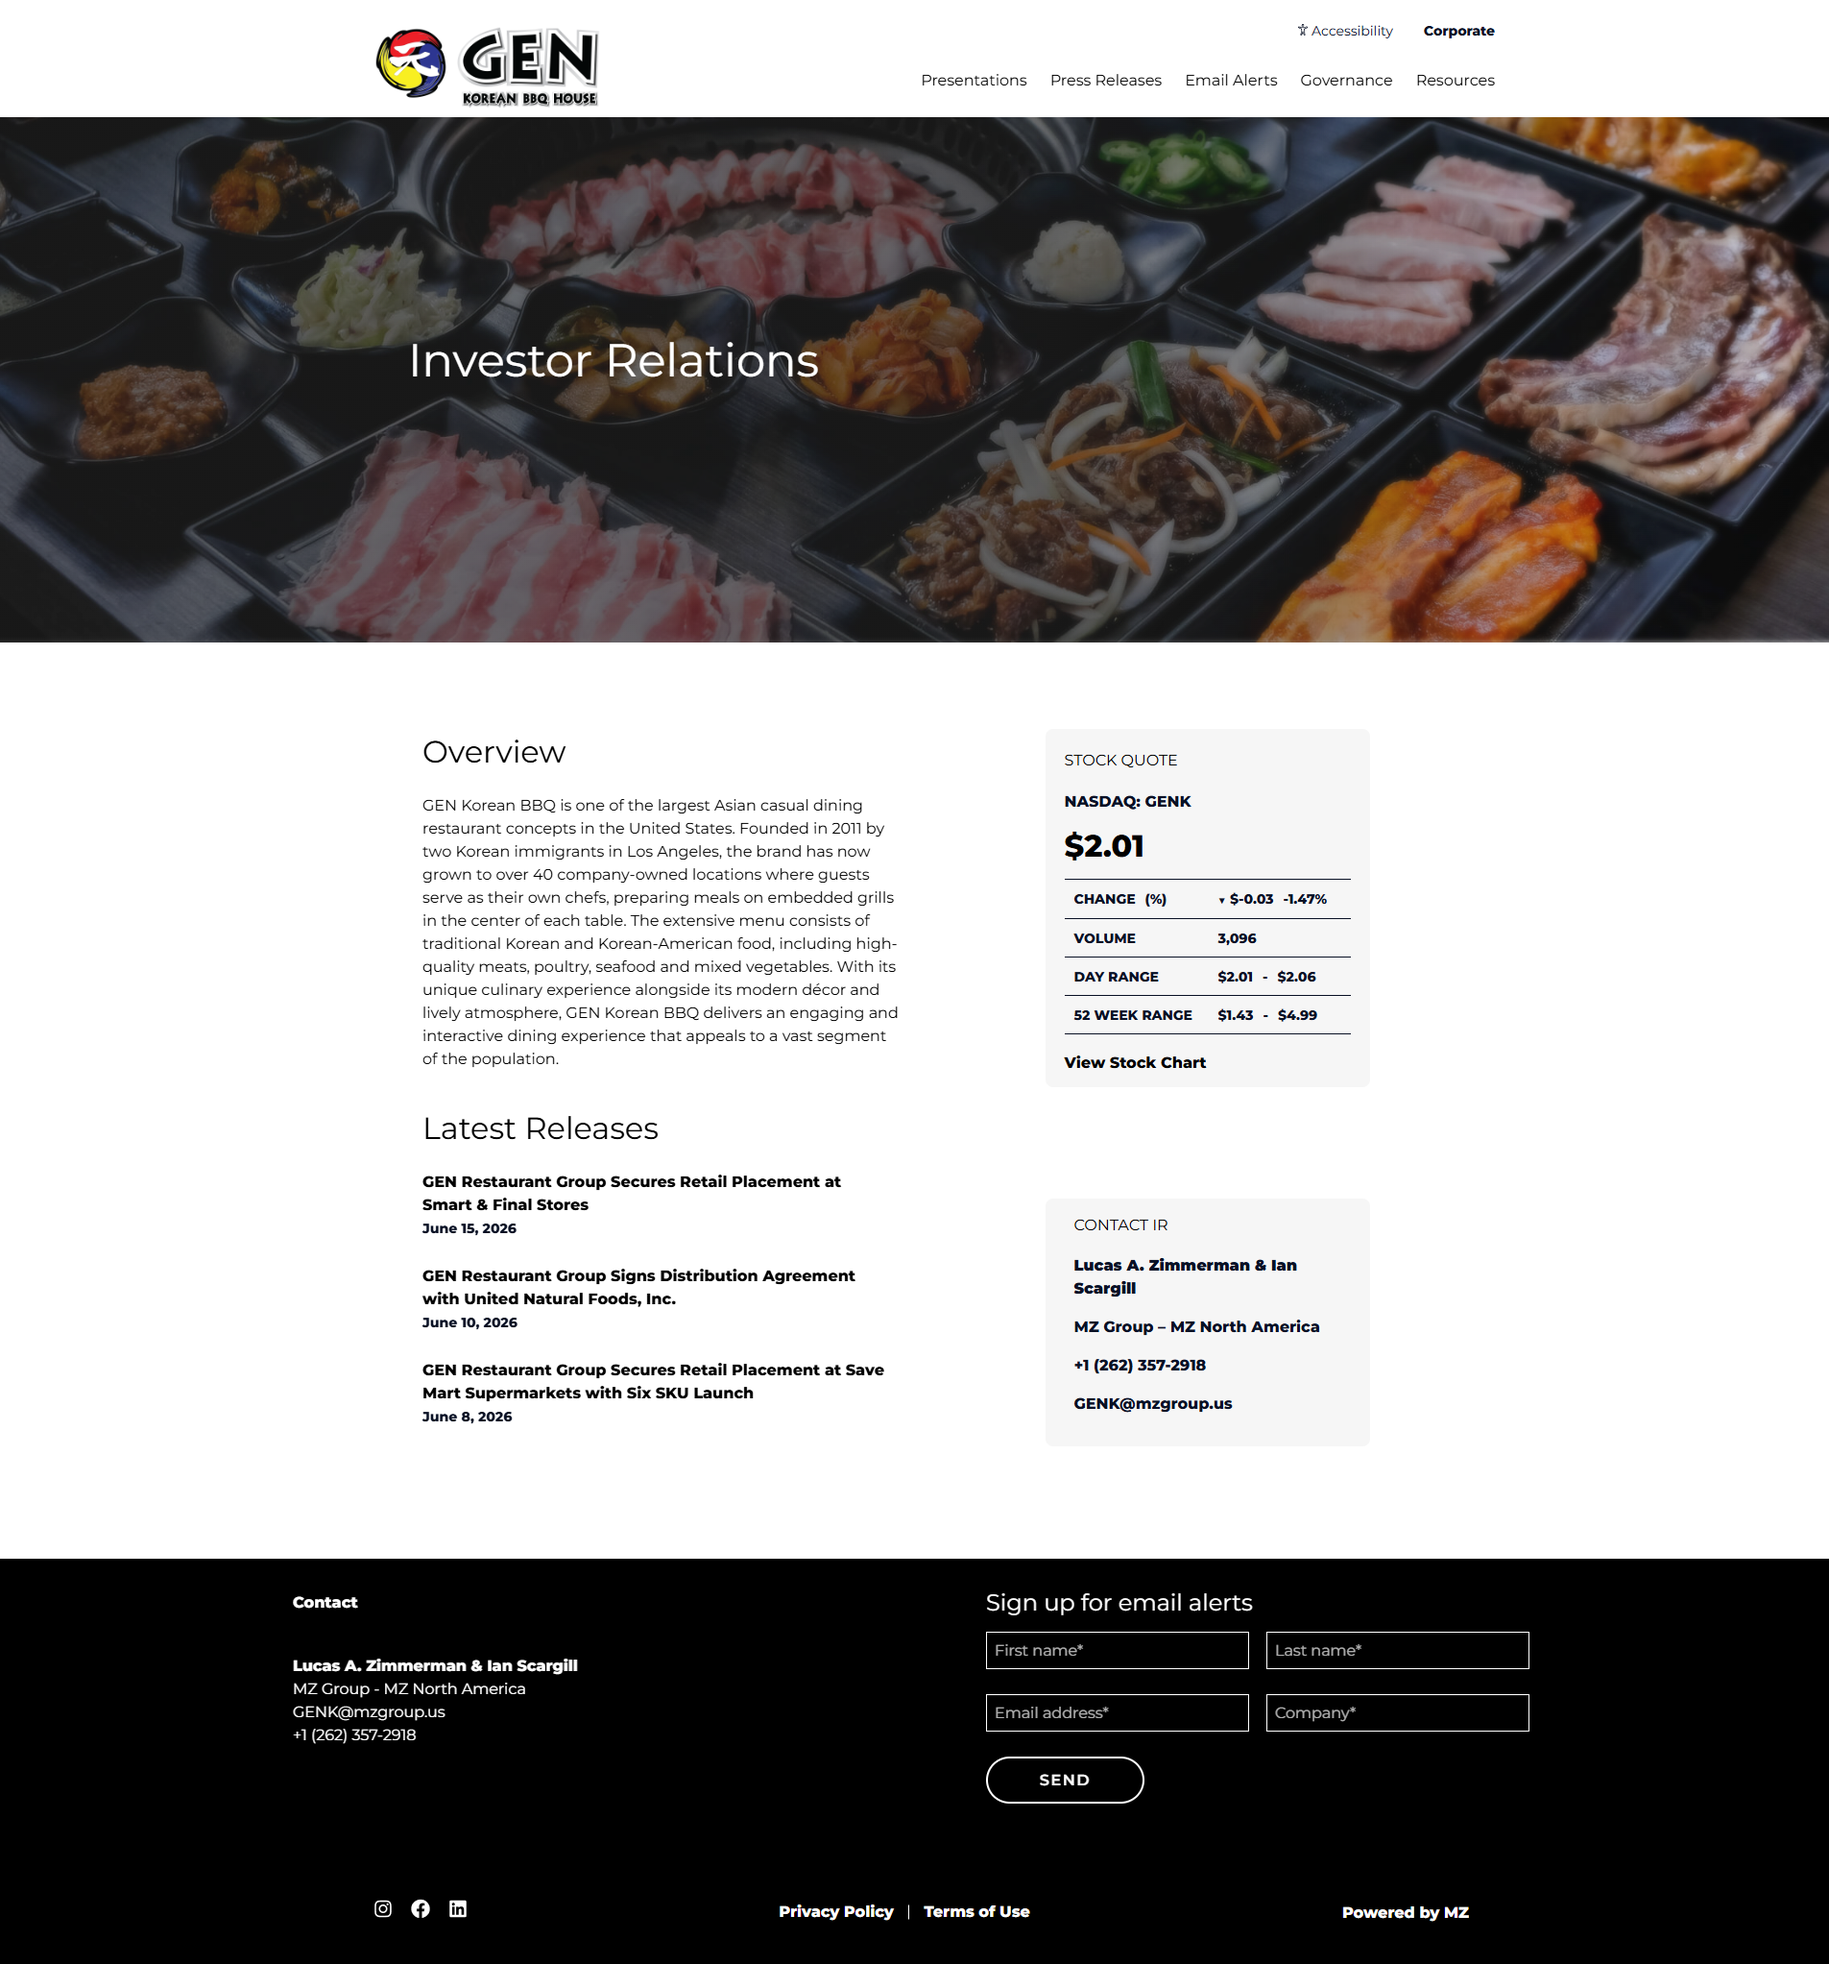
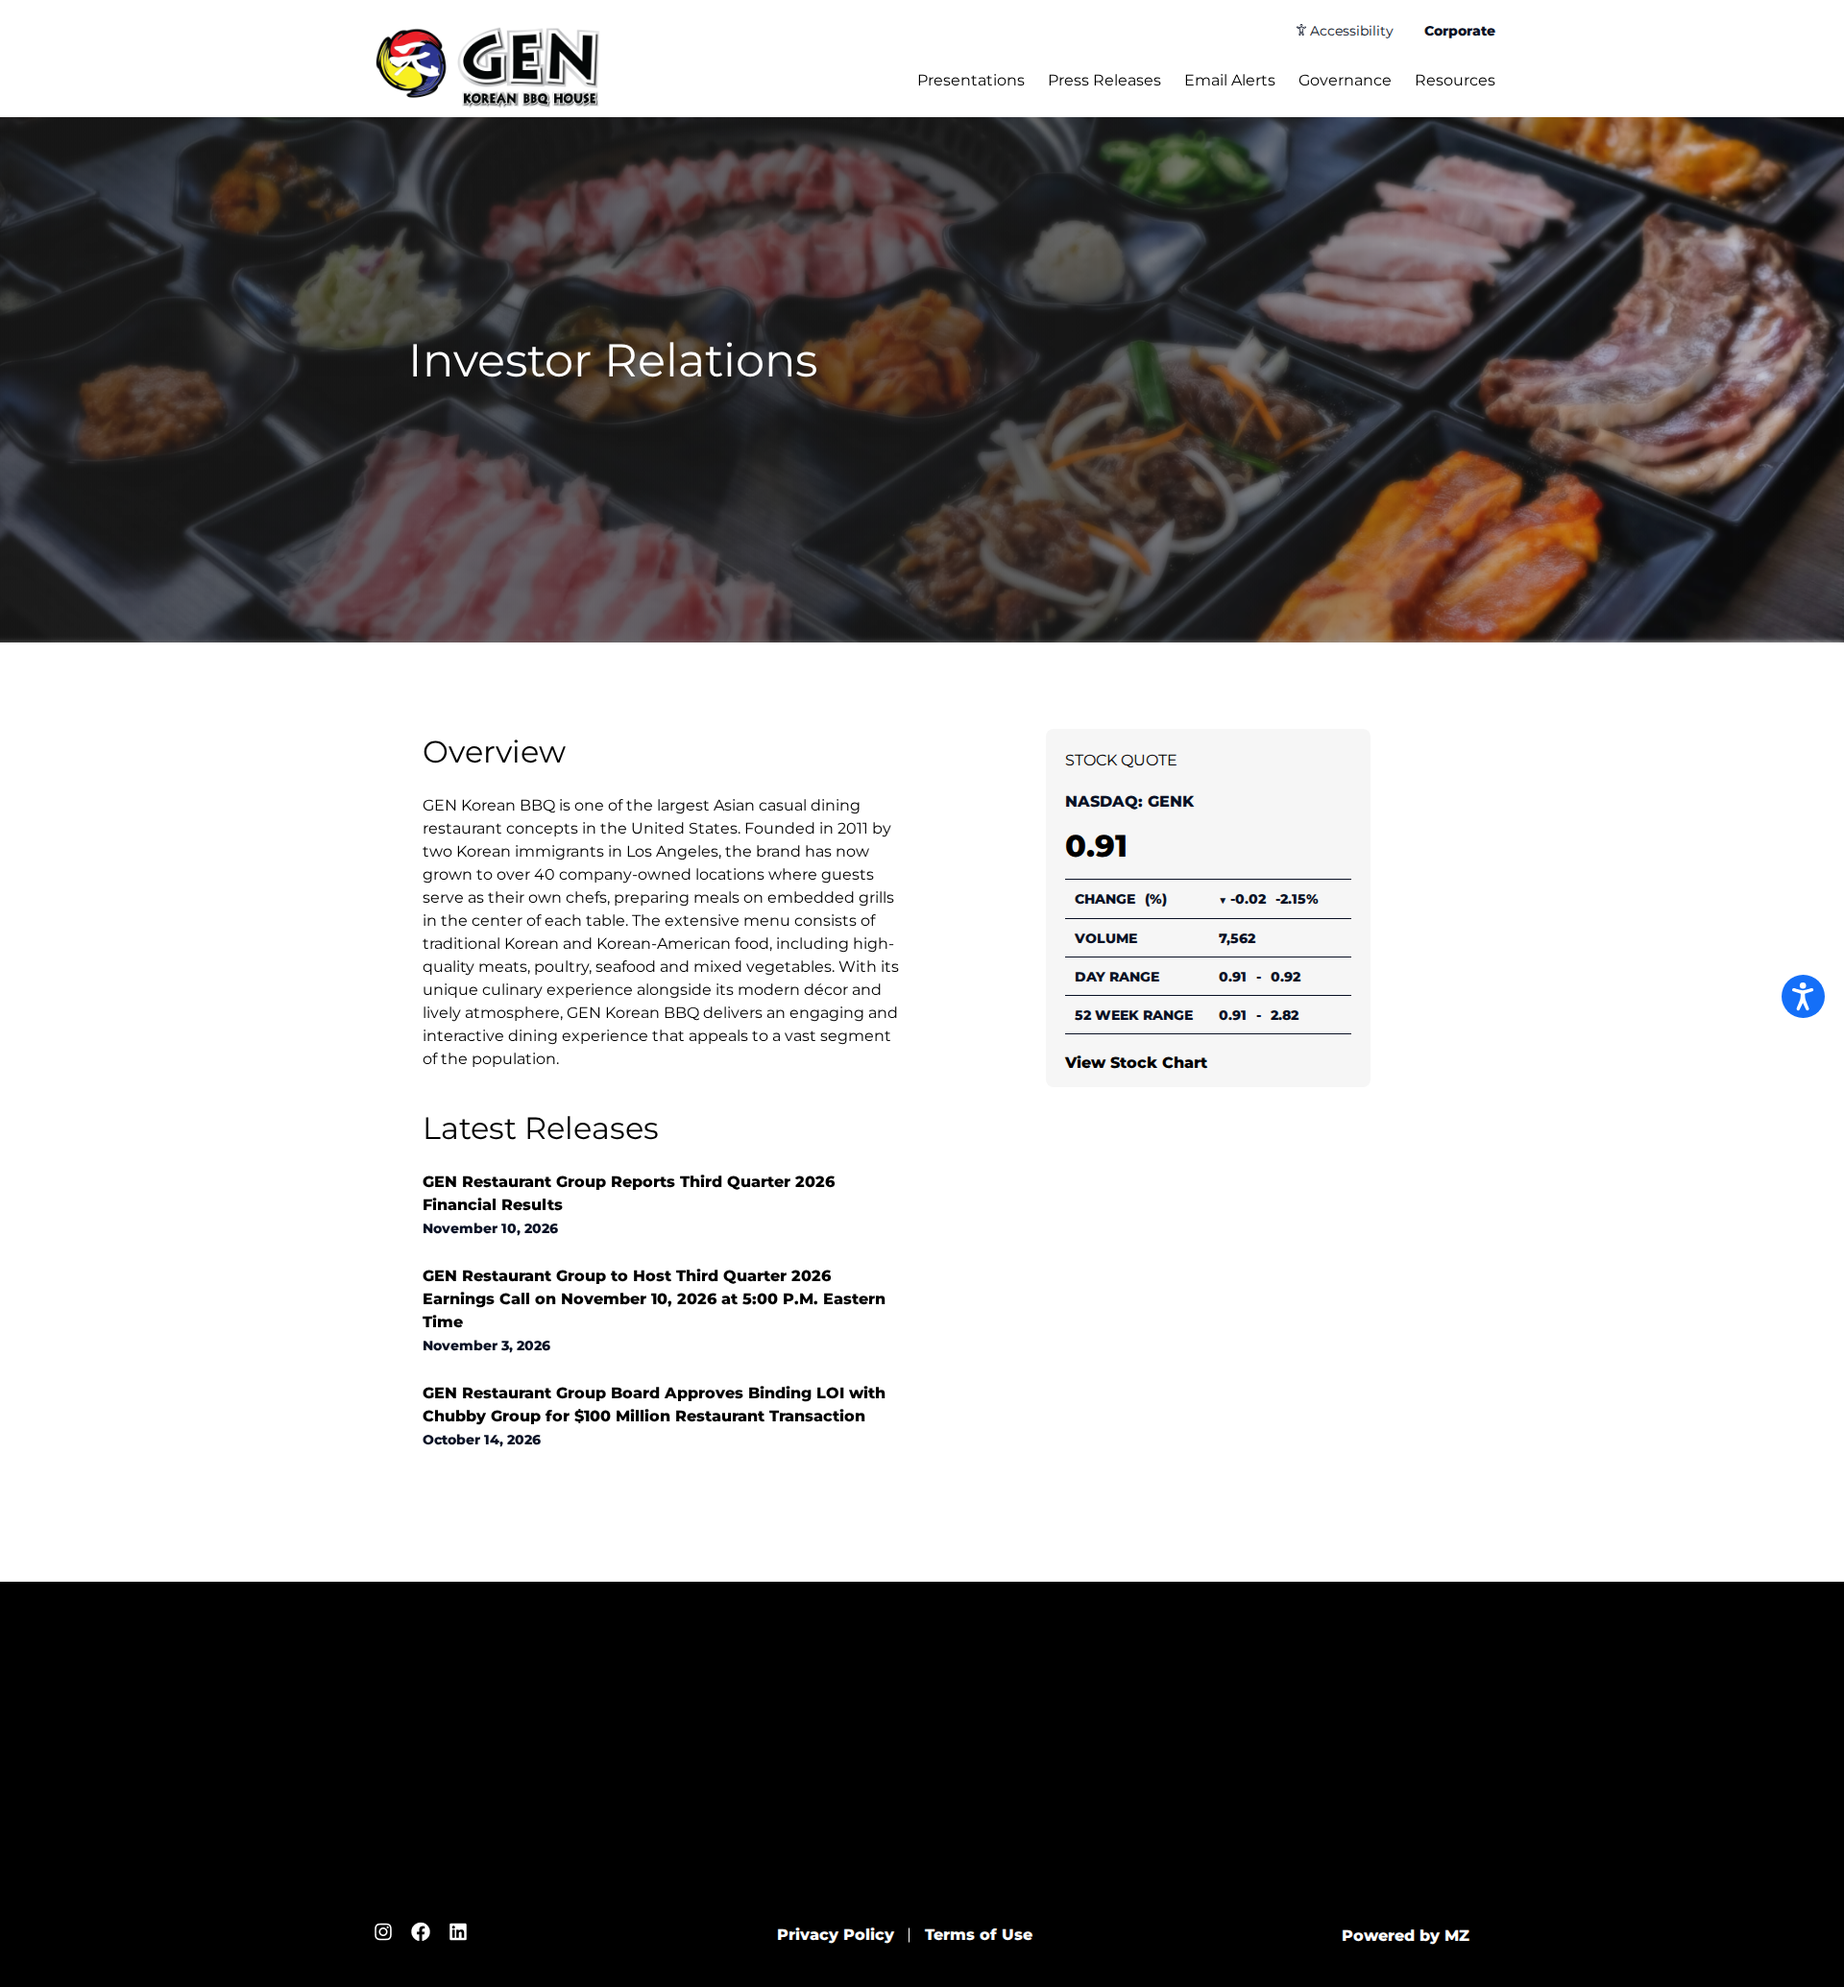
GEN Restaurant Group: print atualizado e data de publicação corrigida (06/2026)

diff --git a/src/projects/projects.controller.ts b/src/projects/projects.controller.ts
@@ -42,7 +42,7 @@ export class ProjectsController {
                 title: 'Criação da Home do site de RI',
                 image: `${baseUrl}/img/projects/genkoreanbbq.png`,
                 category: 'MZ Group',
-                date: '07/2026',
+                date: '06/2026',
                 href: 'https://investor.genkoreanbbq.com/',
             },
             {
